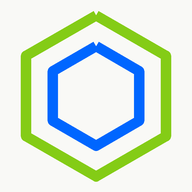
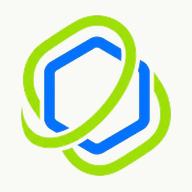
Send the finished files over Telegram instead of publishing a Drive link
Completion now attaches the transcript and the minutes to the chat, so they
can be saved straight from the phone, and the message reports the audio size,
its duration, and how long transcription took.

A Drive link was the obvious approach and it is the wrong one. `rclone link`
creates a permission of type=anyone/reader with no expiry, and `--expire` is
unsupported on the Google Drive backend -- rclone silently ignores it and
returns a permanent public link anyway. Verified against the live folder: the
permission read back as anyone/reader with no expiration, so the "expiring"
link was in fact a permanent one, pointing at a confidential meeting
recording. Attachments use the existing Telegram channel and grant nothing to
anyone.

Also: tg() now parses the API response and logs the message_id. A call that
does not raise is not proof of delivery; a message_id is. This was invisible
before because tg() only logged on exception.

Noticed while testing: sendDocument occasionally sits near the 45s timeout.
It has not failed yet, but the timeout is now visible in the logs when it
happens.

Verified: report renders size/duration/elapsed/segments correctly, both files
attach, and delivery is confirmed by message_id (sendMessage, then two
sendDocuments).

Changed region(s): [[0.0938, 0.0625, 0.9062, 0.9688]]

diff --git a/app/index.html b/app/index.html
@@ -8,7 +8,7 @@
 <meta name="apple-mobile-web-app-title" content="RaceOne Meeting">
 <meta name="theme-color" content="#F9F9F6">
 <link rel="manifest" href="/manifest.json">
-<link rel="apple-touch-icon" href="/icon-192.png">
+<link rel="apple-touch-icon" href="/apple-touch-icon.png">
 <title>RaceOne Meeting Recorder</title>
 <style>
   *{margin:0;padding:0;box-sizing:border-box;-webkit-tap-highlight-color:transparent}

diff --git a/app/transcribe.py b/app/transcribe.py
@@ -115,9 +115,18 @@ def tg(method, payload=None, files=None):
         # 逾時刻意壓短：worker 在持有 flock 期間呼叫此函式，
         # 若 Telegram 卡住，整條轉錄佇列都會被鎖住。
         # （2026-10-01 實際遇到 sendDocument 卡住 90 秒以上。）
-        urllib.request.urlopen(req, timeout=45).read()
+        raw = urllib.request.urlopen(req, timeout=45).read()
+        # 解析回應並回報 message_id —— 「沒丟例外」不等於「送達」，
+        # 要有可查證的識別碼才算數。
+        resp = json.loads(raw.decode() or '{}')
+        if resp.get('ok'):
+            mid = (resp.get('result') or {}).get('message_id')
+            log(f'telegram {method} OK (message_id={mid})')
+            return mid
+        log(f'telegram {method} 被拒: {resp.get("description")}')
     except Exception as e:
         log(f'telegram {method} 失敗: {e}')
+    return None
 
 
 def notify(text, doc=None):
@@ -126,6 +135,74 @@ def notify(text, doc=None):
         tg('sendDocument', payload=payload, files={'document': doc})
     else:
         tg('sendMessage', payload=payload)
+
+
+def notify_files(text, paths, per_file_caption=None):
+    """送一則說明文字，再把每個檔案當附件送出（手機可直接另存）。
+
+    為什麼用附件而不是 Drive 公開連結：
+    `rclone link` 建立的是 `type=anyone / reader` 且**無到期**的權限
+    —— 而且 `--expire` 在 Google Drive 後端不支援、**靜默忽略**（不會報錯），
+    所以「限時連結」其實是永久公開。會議逐字稿與紀要含敏感內容，
+    不能用公開連結散布。附件走 Telegram 既有通道，不新增任何公開權限。
+    """
+    if text:
+        tg('sendMessage', payload={'chat_id': TG_CHAT_ID, 'text': text})
+    for p in paths:
+        p = Path(p)
+        if not p.exists():
+            continue
+        payload = {'chat_id': TG_CHAT_ID}
+        cap = per_file_caption(p) if per_file_caption else None
+        if cap:
+            payload['caption'] = cap
+        tg('sendDocument', payload=payload, files={'document': p})
+
+
+def human_size(n: float) -> str:
+    for unit in ('B', 'KB', 'MB', 'GB'):
+        if n < 1024 or unit == 'GB':
+            return f'{n:.1f} {unit}' if unit != 'B' else f'{int(n)} B'
+        n /= 1024
+    return f'{n:.1f} GB'
+
+
+def human_dur(sec: float) -> str:
+    sec = int(sec or 0)
+    h, rem = divmod(sec, 3600)
+    m, s = divmod(rem, 60)
+    if h:
+        return f'{h} 小時 {m} 分'
+    if m:
+        return f'{m} 分 {s} 秒'
+    return f'{s} 秒'
+
+
+def completion_report(sid: str, n_segments: int, duration: float,
+                      elapsed: float, drive_path: str = None) -> str:
+    """組出完成訊息：容量、時長、轉錄耗時、段數。
+
+    使用者要看的重點是「這份錄音多大、多長、花了多久處理」，
+    以及去哪裡拿檔案。
+    """
+    audio = find_audio(sid)
+    lines = [f'✅ 會議已處理完成', f'',
+             f'session：{sid}']
+    if audio:
+        lines.append(f'音檔容量：{human_size(audio.stat().st_size)}')
+    if duration:
+        lines.append(f'音檔時長：{human_dur(duration)}')
+    if elapsed:
+        rtf = elapsed / duration if duration else 0
+        lines.append(f'轉錄耗時：{human_dur(elapsed)}'
+                     f'（RTF {rtf:.3f}x，約音檔長度的 {rtf:.0%}）')
+    lines.append(f'逐字稿：{n_segments} 段')
+    if drive_path:
+        lines.append(f'')
+        lines.append(f'Drive 備份：{drive_path}')
+    lines.append('')
+    lines.append('逐字稿與紀要見下方附件，可直接下載另存。')
+    return '\n'.join(lines)
 
 
 # ---------------- 音訊 ----------------
@@ -741,20 +818,28 @@ def process(sid: str) -> bool:
         write_meta(sid, drive_pending=True, drive_error=derr)
         log(f'{sid}: Drive 歸檔未完成 — {derr}（已標記待補歸檔，保留音檔）')
 
-    head_zh = (zh_min[:1200] + '\n\n（完整紀要見附件）') if zh_min and len(zh_min) > 1200 \
+    head_zh = (zh_min[:800] + '\n\n（完整紀要見附件）') if zh_min and len(zh_min) > 800 \
         else (zh_min or '（未產生紀要）')
-    head_en = (en_min[:1200] + '\n\n（Full minutes in attachment）') if en_min and len(en_min) > 1200 \
+    head_en = (en_min[:600] + '\n\n（Full minutes in attachment）') if en_min and len(en_min) > 600 \
         else (en_min or '(no minutes generated)')
-    drive_line = (f'\n📁 Drive: {drive_path}' if drive_path
-                  else f'\n⚠ Drive 歸檔失敗：{derr}')
-    notify(f'✅ 轉錄完成 / Transcription done\n'
-           f'session: {sid}\n'
-           f'時長 {ts(meta["duration"])} · {len(segments)} 段 · '
-           f'{meta["language"]} · 耗時 {meta["transcribe_seconds"]:.0f}s\n'
-           f'{drive_line}\n\n'
-           f'中文：\n{head_zh}\n\n'
-           f'English:\n{head_en}',
-           doc=str(txt))
+
+    report = completion_report(sid, len(segments), meta['duration'],
+                               meta.get('transcribe_seconds') or 0, drive_path)
+    if not drive_path:
+        report += f'\n⚠ Drive 歸檔失敗：{derr}（本機已保留音檔備份）'
+
+    # 附上逐字稿與紀要 —— 手機可直接下載另存。
+    # 刻意不給 Drive 公開連結：rclone link 的權限是「知道連結的任何人永久可讀」，
+    # 而且 --expire 在 Google Drive 後端不支援、靜默忽略。
+    docs = [txt]
+    md = MINUTES_DIR / f'{sid}.md'
+    if md.exists():
+        docs.append(md)
+    notify_files(f'{report}\n\n─── 中文紀要（節錄）───\n{head_zh}\n\n'
+                 f'─── English minutes (excerpt) ───\n{head_en}',
+                 docs,
+                 per_file_caption=lambda p: ('逐字稿 Transcript'
+                                             if p.suffix == '.txt' else '會議紀要 Minutes'))
     return True
 
 

diff --git a/app/gpu_transcribe.py b/app/gpu_transcribe.py
@@ -311,8 +311,20 @@ def main():
         T.write_meta(sid, drive_pending=True, drive_error=derr)
         T.log(f'{sid}: Drive 歸檔未完成 — {derr}（已標記待補歸檔，保留音檔）')
 
-    T.notify(f'✅ GPU 轉錄完成\nsession: {sid}\n{len(segments)} 段 · '
-             f'{elapsed/60:.1f} 分鐘（RTF {elapsed/meta["duration"]:.3f}x）')
+    report = T.completion_report(sid, len(segments), meta['duration'],
+                                 elapsed, drive_path)
+    if not drive_path:
+        report += f'\n⚠ Drive 歸檔失敗：{derr}（本機已保留音檔備份）'
+
+    # 附上逐字稿與紀要 —— 手機可直接下載另存。
+    # 刻意不給 Drive 公開連結（rclone link 是「知道連結的任何人永久可讀」）。
+    docs = [txt]
+    md = T.MINUTES_DIR / f'{sid}.md'
+    if md.exists():
+        docs.append(md)
+    T.notify_files(report, docs,
+                   per_file_caption=lambda p: ('逐字稿 Transcript'
+                                               if p.suffix == '.txt' else '會議紀要 Minutes'))
     return 0
 
 

diff --git a/app/server.py b/app/server.py
@@ -115,7 +115,12 @@ STATIC_FILES = {
     '/service-worker.js': 'application/javascript; charset=utf-8',
     '/icon-192.png': 'image/png',
     '/icon-512.png': 'image/png',
+    # Android 會把圖示裁成圓形／水滴形，需要留白更多的 maskable 版本
+    '/icon-maskable-512.png': 'image/png',
+    '/apple-touch-icon.png': 'image/png',
     '/raceone-logo.jpg': 'image/jpeg',
+    # 官方透明 mark（PWA 圖示就是用它後製疊出來的）
+    '/raceone-mark.png': 'image/png',
 }
 AUDIO_EXT = {'audio/mp4': 'm4a', 'audio/x-m4a': 'm4a', 'audio/m4a': 'm4a',
              'audio/mpeg': 'mp3', 'audio/mp3': 'mp3', 'audio/wav': 'wav',
